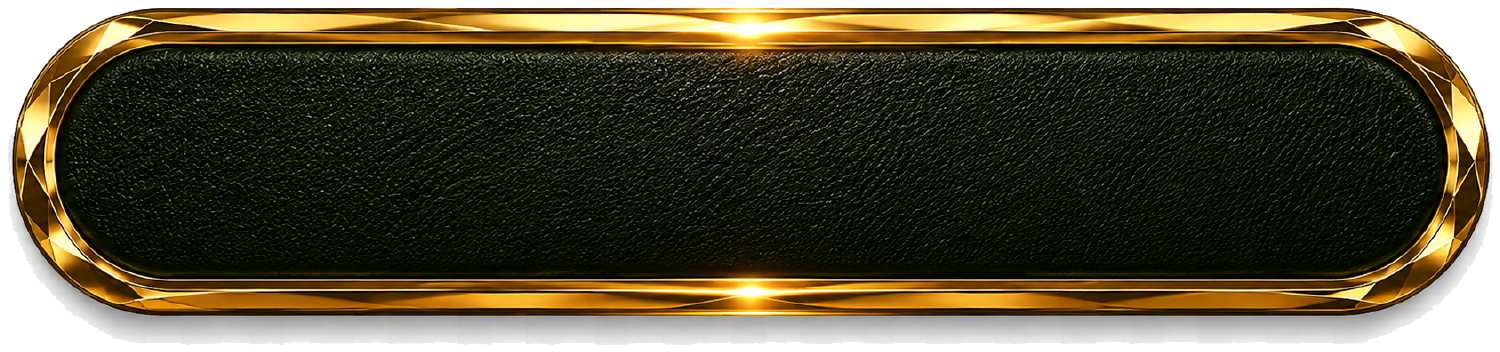
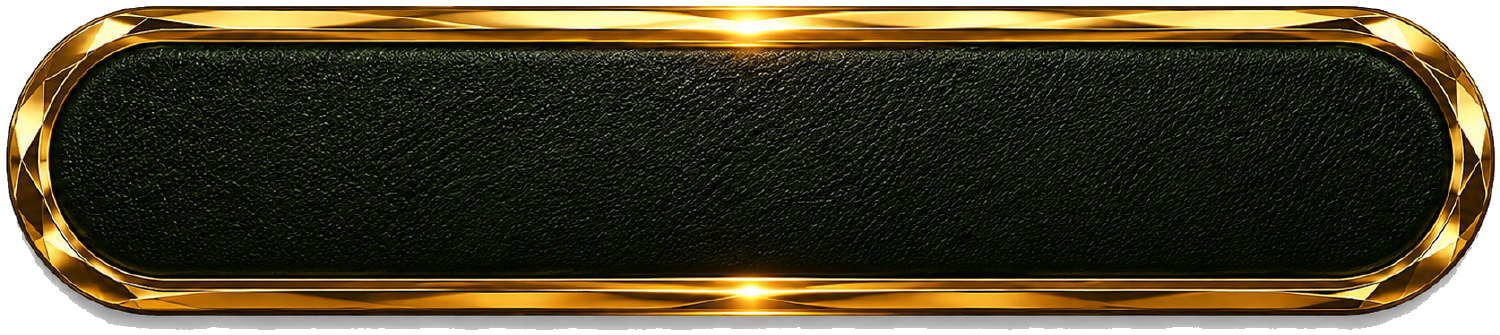
Polish bottom nav pill and home hub styling
Nav pill: 92% width (560 max), height 78->92, soft dark drop shadow on a wrapper (pill asset reprocessed to remove the light anti-alias fringe that read as a white glow), tabs evenly distributed with equal flex touch targets, active tab scales its icon 1.2x over a soft gold glow circle, no dimming of inactive icons. Home hub: emoji replaced with gold Ionicons outlines, even vertical rhythm and consistent card padding. People FAB raised to clear the taller pill.

diff --git a/src/components/BottomNavBar.tsx b/src/components/BottomNavBar.tsx
@@ -18,59 +18,81 @@ export function BottomNavBar() {
 
   return (
     <View style={[styles.wrap, { paddingBottom: Math.max(insets.bottom, 12) }]}>
-      <ImageBackground
-        source={PILL}
-        style={styles.pill}
-        imageStyle={styles.pillImage}
-        resizeMode="stretch"
-      >
-        {TABS.map(tab => {
-          const active =
-            tab.route === '/'
-              ? pathname === '/' || pathname === ''
-              : pathname === tab.route || pathname.startsWith(tab.route + '/');
-          return (
-            <TouchableOpacity
-              key={tab.route}
-              style={styles.tab}
-              onPress={() => router.push(tab.route)}
-              activeOpacity={0.7}
-            >
-              <Image
-                source={tab.icon}
-                style={[styles.icon, !active && styles.iconInactive]}
-                resizeMode="contain"
-              />
-              <Text style={[styles.label, active && styles.labelActive]}>{tab.label}</Text>
-            </TouchableOpacity>
-          );
-        })}
-      </ImageBackground>
+      <View style={styles.shadowWrap}>
+        <ImageBackground
+          source={PILL}
+          style={styles.pill}
+          imageStyle={styles.pillImage}
+          resizeMode="stretch"
+        >
+          {TABS.map(tab => {
+            const active =
+              tab.route === '/'
+                ? pathname === '/' || pathname === ''
+                : pathname === tab.route || pathname.startsWith(tab.route + '/');
+            return (
+              <TouchableOpacity
+                key={tab.route}
+                style={styles.tab}
+                onPress={() => router.push(tab.route)}
+                activeOpacity={0.7}
+              >
+                <View style={styles.iconWrap}>
+                  {active && <View style={styles.glow} />}
+                  <Image
+                    source={tab.icon}
+                    style={[styles.icon, active && styles.iconActive]}
+                    resizeMode="contain"
+                  />
+                </View>
+                <Text style={[styles.label, active && styles.labelActive]}>{tab.label}</Text>
+              </TouchableOpacity>
+            );
+          })}
+        </ImageBackground>
+      </View>
     </View>
   );
 }
 
 const styles = StyleSheet.create({
   wrap: {
-    paddingHorizontal: 14,
+    alignItems: 'center',
     backgroundColor: 'transparent',
-    flexDirection: 'row',
+  },
+  shadowWrap: {
+    width: '92%',
+    maxWidth: 560,
+    shadowColor: '#000',
+    shadowOffset: { width: 0, height: 6 },
+    shadowOpacity: 0.3,
+    shadowRadius: 10,
+    elevation: 8,
   },
   pill: {
-    flex: 1,
-    height: 78,
-    maxWidth: 560,
-    marginHorizontal: 'auto',
+    height: 92,
     flexDirection: 'row',
     alignItems: 'center',
     justifyContent: 'space-evenly',
-    paddingHorizontal: 18,
-    overflow: 'hidden',
+    paddingHorizontal: 16,
   },
   pillImage: { width: '100%', height: '100%' },
-  tab:  { alignItems: 'center', gap: 3, minWidth: 54 },
+  tab: { flex: 1, alignItems: 'center', gap: 3 },
+  iconWrap: {
+    width: 48, height: 42,
+    alignItems: 'center', justifyContent: 'center',
+  },
+  glow: {
+    position: 'absolute',
+    width: 46, height: 46, borderRadius: 23,
+    backgroundColor: 'rgba(212, 175, 55, 0.20)',
+    shadowColor: '#D4AF37',
+    shadowOffset: { width: 0, height: 0 },
+    shadowOpacity: 0.85,
+    shadowRadius: 12,
+  },
   icon: { width: 36, height: 30 },
-  iconInactive: { opacity: 0.5 },
-  label:       { fontSize: 9, color: 'rgba(212, 175, 55, 0.45)', letterSpacing: 1 },
+  iconActive: { transform: [{ scale: 1.2 }] },
+  label:       { fontSize: 9, color: 'rgba(212, 175, 55, 0.55)', letterSpacing: 1 },
   labelActive: { color: '#D4AF37' },
 });

diff --git a/src/app/(app)/index.tsx b/src/app/(app)/index.tsx
@@ -4,6 +4,7 @@ import {
   SafeAreaView, ScrollView, ActivityIndicator, ImageBackground,
 } from 'react-native';
 import { useRouter, useFocusEffect } from 'expo-router';
+import { Ionicons } from '@expo/vector-icons';
 import { supabase } from '@/lib/supabase';
 import { Brand } from '@/constants/brand';
 import { BottomNavBar } from '@/components/BottomNavBar';
@@ -11,10 +12,10 @@ import { BottomNavBar } from '@/components/BottomNavBar';
 const BG = require('../../../assets/background.png');
 
 const HUB_BUTTONS = [
-  { label: 'YOUR PEOPLE', icon: '👥', route: '/people'          },
-  { label: 'SEND A GIFT', icon: '🎁', route: '/send/recipient'  },
-  { label: 'YOUR GIFTS',  icon: '📋', route: '/gifts'           },
-  { label: 'YOU',         icon: '👤', route: '/profile'         },
+  { label: 'YOUR PEOPLE', icon: 'people-outline', route: '/people'         },
+  { label: 'SEND A GIFT', icon: 'gift-outline',   route: '/send/recipient' },
+  { label: 'YOUR GIFTS',  icon: 'list-outline',   route: '/gifts'          },
+  { label: 'YOU',         icon: 'person-outline', route: '/profile'        },
 ] as const;
 
 interface UpcomingContact { id: string; display_name: string; days: number }
@@ -121,7 +122,7 @@ export default function HomeScreen() {
                 onPress={() => router.push(btn.route)}
                 activeOpacity={0.7}
               >
-                <Text style={styles.hubIcon}>{btn.icon}</Text>
+                <Ionicons name={btn.icon} size={34} color="#D4AF37" />
                 <Text style={styles.hubLabel}>{btn.label}</Text>
               </TouchableOpacity>
             ))}
@@ -153,17 +154,16 @@ const styles = StyleSheet.create({
   wordmarkBlock: { alignItems: 'center', gap: 8 },
   wordmark:      { fontFamily: 'ui-serif', fontSize: 38, color: Brand.gold, letterSpacing: 3 },
   tagline:       { color: 'rgba(212,175,55,0.65)', fontSize: 13, fontStyle: 'italic', letterSpacing: 1 },
-  divider:       { width: 48, height: 1, backgroundColor: 'rgba(212,175,55,0.4)', marginTop: 4 },
+  divider:       { width: 48, height: 1, backgroundColor: 'rgba(212,175,55,0.4)', marginTop: 8 },
 
   grid: { flexDirection: 'row', flexWrap: 'wrap', gap: 14 },
   hubBtn: {
     width: '47.5%', height: 140,
     backgroundColor: 'rgba(212, 175, 55, 0.10)',
     borderWidth: 1, borderColor: 'rgba(212, 175, 55, 0.35)',
-    borderRadius: 16,
-    alignItems: 'center', justifyContent: 'center', gap: 10,
+    borderRadius: 16, padding: 16,
+    alignItems: 'center', justifyContent: 'center', gap: 12,
   },
-  hubIcon:  { fontSize: 34 },
   hubLabel: {
     color: Brand.gold, fontSize: 11, fontWeight: '700',
     letterSpacing: 1.5, fontFamily: 'ui-serif',

diff --git a/src/app/(app)/people.tsx b/src/app/(app)/people.tsx
@@ -164,7 +164,7 @@ export default function PeopleScreen() {
 
         {/* FAB — positioned above nav bar */}
         <TouchableOpacity
-          style={[styles.fab, { bottom: insets.bottom + 80 + 16 }]}
+          style={[styles.fab, { bottom: insets.bottom + 92 + 20 }]}
           onPress={() => router.push('/contact/new')}
           activeOpacity={0.85}
         >
